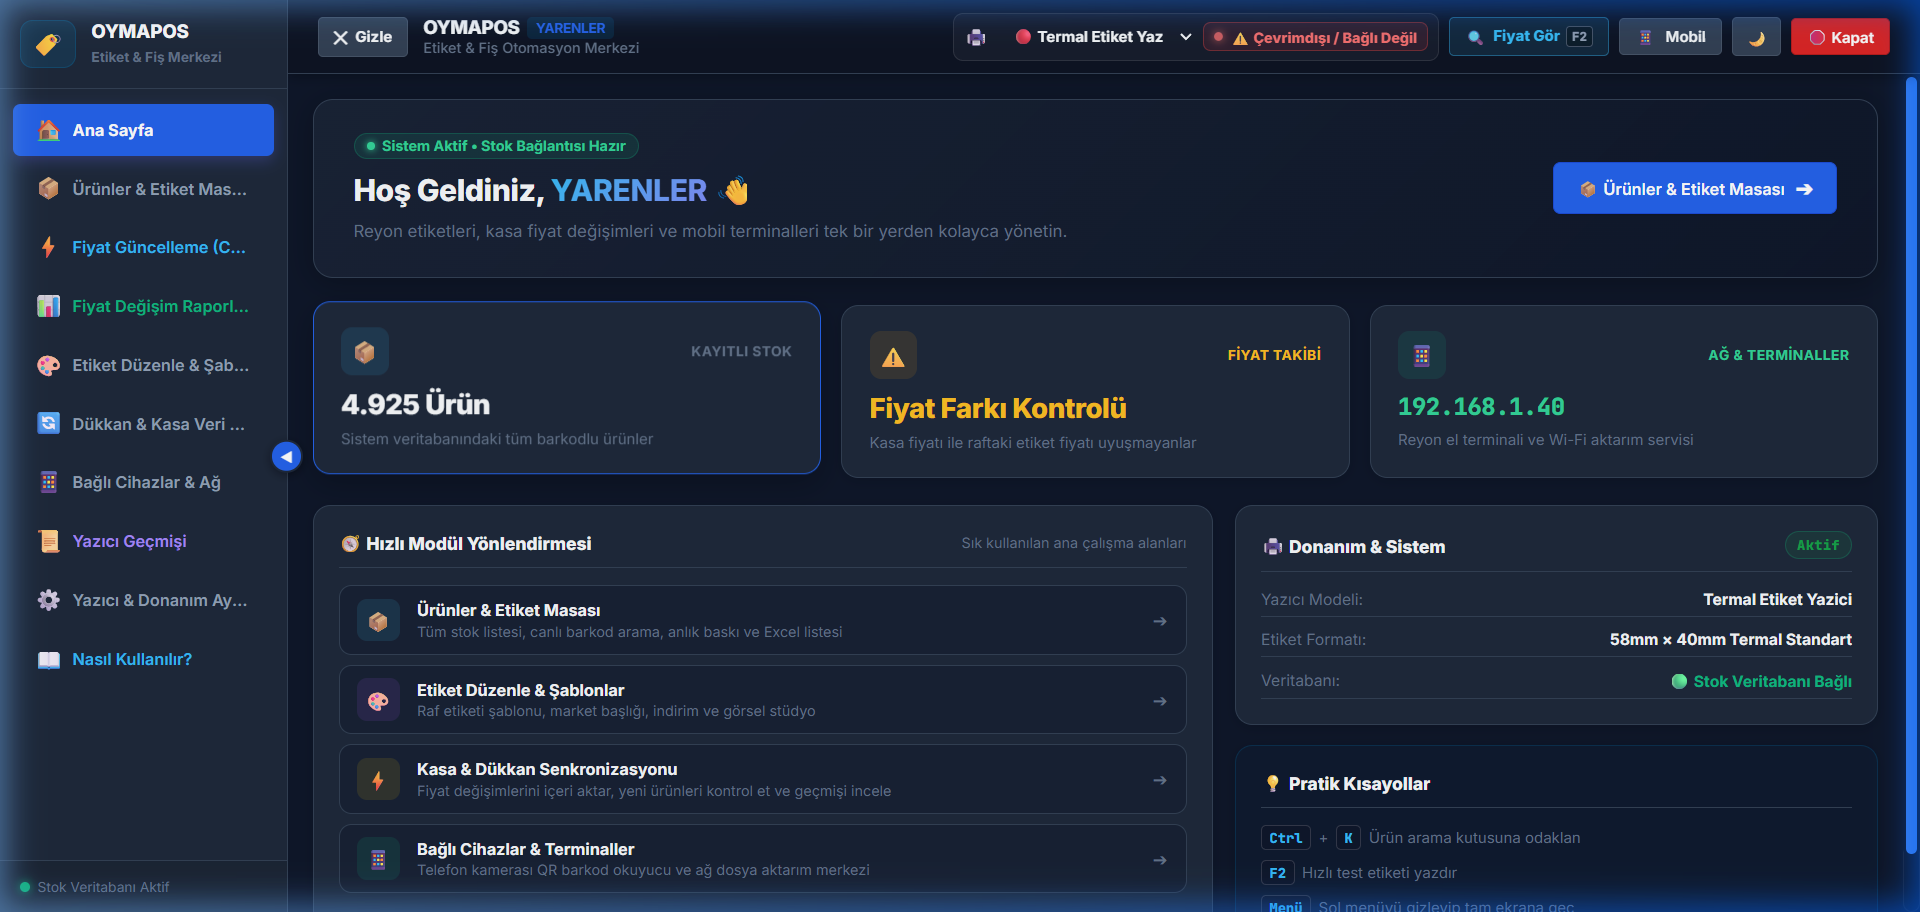
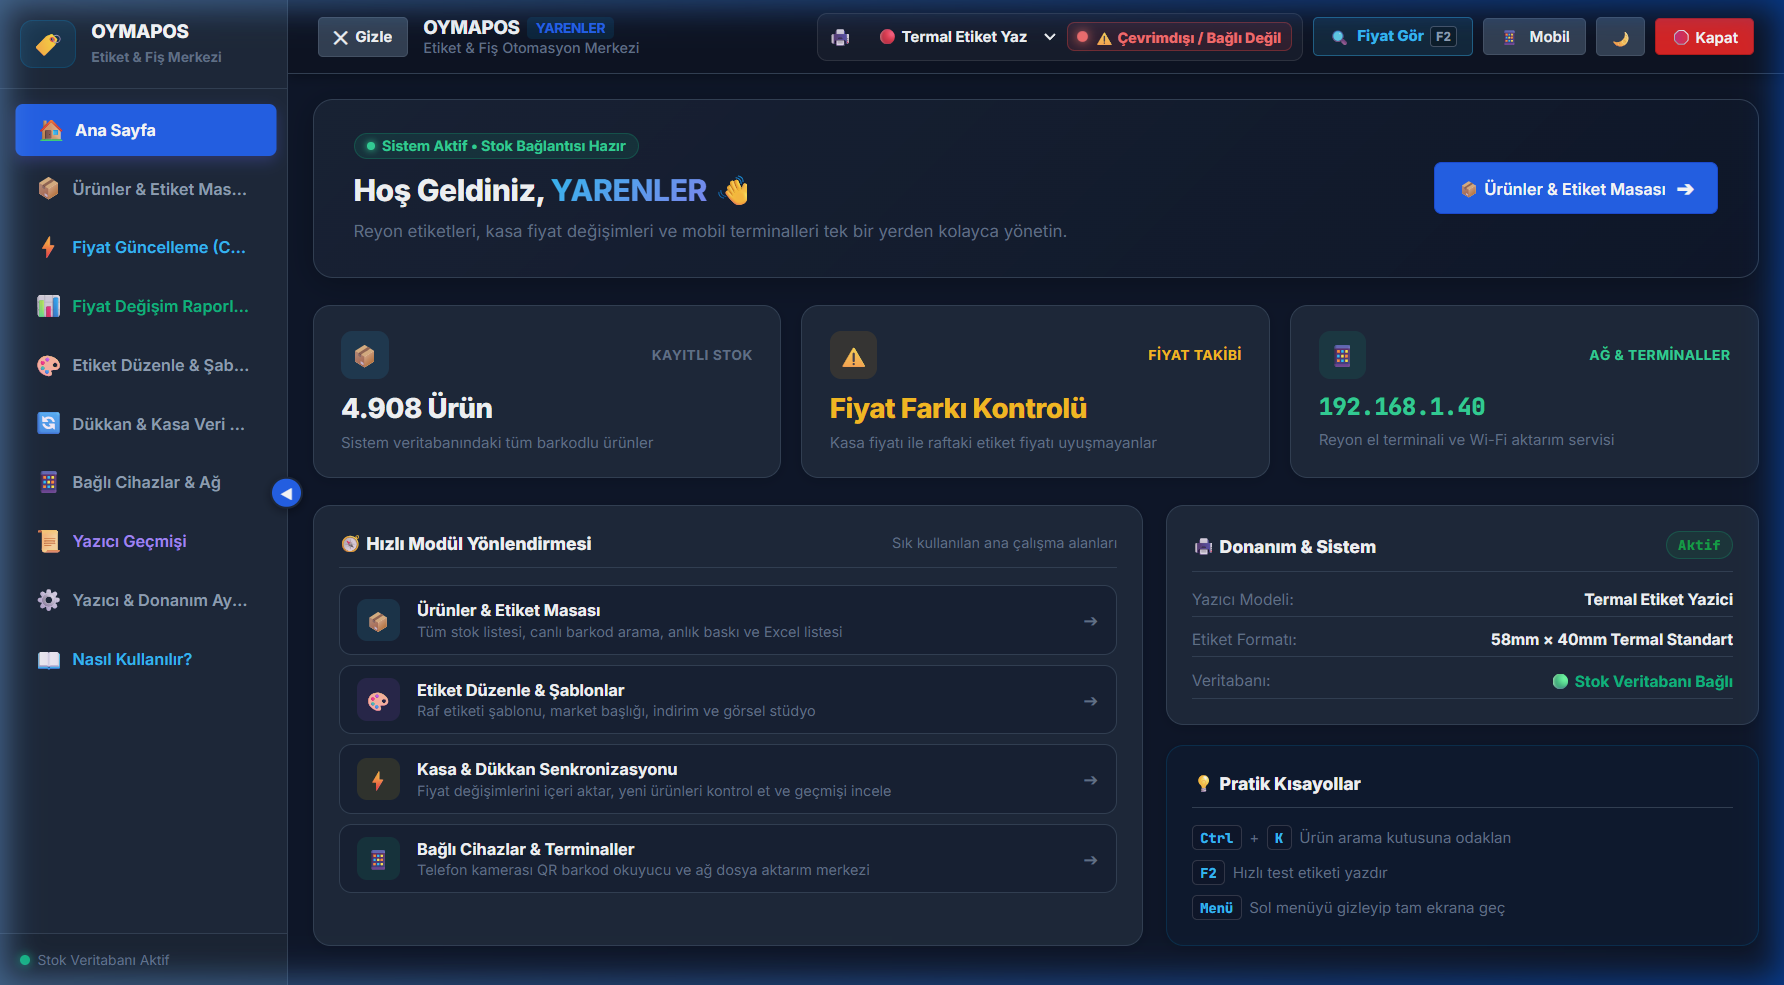
docs: tum paneller ve mobil terminal 3 sekme detayli gorselleri ve aciklamalari eklendi

diff --git a/README.md b/README.md
@@ -6,59 +6,58 @@ Herhangi bir özel POS veya ERP yazılımına bağımlı kalmadan; panodan kopya
 
 ---
 
-## 📸 Ekran Görüntüleri & Arayüz Önizlemesi
+## 📱 Mobil Reyon Terminali (Telefon ile Kablosuz Denetim)
 
-| 🖥 Masaüstü Kontrol Merkezi & Ürün Masası | 📱 Mobil Reyon Asistanı (Telefon Terminali) |
-| :---: | :---: |
-| <img src="frontend/assets/screenshots/desktop_products.png" width="580" alt="Masaüstü Ürünler Masası"> | <img src="frontend/assets/screenshots/mobile_assistant.png" width="260" alt="Mobil Reyon Terminali"> |
+Akıllı telefonunuzu herhangi bir uygulama yüklemeden reyon el terminaline dönüştürün. Kamera ile barkod okutma, anlık ürün sorgulama, fiyat değiştirme ve kasadaki yazıcıya tek tıkla yazdırma imkanı sunar.
 
-| 📊 Ana Kontrol Paneli (Dashboard) |
-| :---: |
-| <img src="frontend/assets/screenshots/desktop_dashboard.png" width="860" alt="Masaüstü Dashboard"> |
+| 1. Fiyat Gör & Ürün Kartı | 2. Basım Kuyruğu & Gönderim | 3. Günlük Değişenler Listesi |
+| :---: | :---: | :---: |
+| <img src="frontend/assets/screenshots/mobile_scan_active.png" width="280" alt="Mobil Fiyat Gör ve Ürün Kartı"> | <img src="frontend/assets/screenshots/mobile_queue.png" width="280" alt="Mobil Basım Kuyruğu"> | <img src="frontend/assets/screenshots/mobile_changes.png" width="280" alt="Mobil Değişenler Listesi"> |
+| **Barkod Okutma & Detay:**<br>Kamera veya manuel aramayla anında satış fiyatı, etiket fiyatı ve piyasa karşılaştırması. | **Kuyruk Yönetimi:**<br>Okutulan ürünler ters kronolojik sırayla toplanır; toplu olarak kasadaki termal yazıcıya iletilir. | **Reyon Denetimi:**<br>Günün fiyatı değişen ürünlerini listeler, tek tıkla barkod dökümü ve PDF indirme sağlar. |
 
 ---
 
-## 📖 Sistem Panelleri ve Kullanım Kılavuzu
+## 🖥 Masaüstü Yönetim Masası & Temel Paneller
 
-### 1. 📦 Ürünler & Etiket Masası
-* **Arama & Filtreleme:** Ürün adı, barkod veya reyon kodu ile anında filtreleme.
-* **Ürün Detay Kartı:** Listede bir ürüne 1 kez tıklandığında ürünün detayları, fiyat geçmişi ve etiket önizlemesi görüntülenir.
-* **Hızlı Düzenleme:** Ürüne çift tıklandığında ürün adı, satış fiyatı, birim miktarı ve KDV oranı doğrudan düzenlenebilir.
-* **Çoklu Seçim:** `Shift + Tık` ile aralık seçimi, `Ctrl + Tık` ile bağımsız çoklu ürün seçimi yapılabilir.
-* **Fiyat Farkı Takibi:** "⚠ Fiyatı Değişenler" filtresiyle, kasadaki güncel fiyatı ile basılı raf etiketi uyuşmayan ürünler tek tıkla listelenir.
-* **Kara Liste Filtresi:** Poşet, depozito vb. etiket basılmayacak ürünler tek tıkla gizlenir veya yönetilir.
+OYMAPOS Masaüstü Arayüzü, yoğun market temposunda hızlı işlem yapabilmek için klavye odaklı, sade ve güçlü araçlarla donatılmıştır.
 
-### 2. ⚡ Fiyat Güncelleme (Ctrl+V & Excel Masası)
-* **Panodan Doğrudan Yapıştırma (Ctrl + V):** Muhasebe programından veya Excel'den kopyalanan satırları doğrudan yapıştırarak saniyeler içinde içeri aktarma.
-* **Excel / CSV Yükleme:** Sürükle-bırak yöntemiyle dosya yükleme desteği.
-* **2 Aşamalı Güvenli Karşılaştırma Masası:** Zam gelenler, indirim yapılanlar ve yeni ürünler onay öncesinde renk kodlarıyla gösterilir.
-* **Geri Alma (Rollback / Undo):** İstenmeyen aktarımlarda tek tıkla önceki fiyatlara anında dönebilme.
+### 1. 🏠 Ana Kontrol Paneli (Dashboard)
+Toplam stok durumu, fiyatı değişen ürün sayısı, aktif yazıcı bağlantısı ve hızlı yönlendirme kartları.
+<p align="center">
+  <img src="frontend/assets/screenshots/desktop_dashboard.png" width="920" alt="Masaüstü Dashboard Paneli">
+</p>
 
-### 3. 📊 Fiyat Değişim Raporları & PDF Baskı
-* **Günlük ve Kaynak Bazlı Takip:** Mobil terminalden, masaüstünden veya toplu aktarımdan gelen fiyat değişimleri ayrı ayrı filtrelenir.
-* **A4 Büyük Barkodlu Değişim Raporu:** Reyon görevlisinin reyonda gezerken el tipi okuyucu veya telefonla okutabileceği büyük barkodlu A4 PDF dökümü oluşturulur.
-* **Otomatik Etiket Fiyatı Eşitleme:** PDF basıldıktan sonra sistem onay ister ve ürünlerin raf etiket fiyatları otomatik olarak güncellenir.
+---
 
-### 4. 🎨 Etiket Düzenle & Şablonlar (Stüdyo)
-* **Hazır Standart Boyutlar:** 76x40 mm (Standart Market Rafı), 60x40 mm (Kompakt), 40x20 mm ve özel ebatlar.
-* **Yasal Ögeler:** Resmi Yerli Üretim Logosu, Birim Fiyat Kutusu (1 KG / 1 LT), Gramaj/Miktar Rozeti, Reyon Kodu ve QR Kod desteği.
-* **Görsel Tasarım Masası:** Ögelerin yerleşimi canlı önizleme üzerinden anında kontrol edilir.
+### 2. 📦 Ürünler & Hızlı Etiket Masası (Excel Grid)
+4.900+ ürünün anlık arandığı, fiyat farkı olanların tek tıkla süzüldüğü ve `Shift/Ctrl + Tık` ile çoklu etiket basıldığı ana merkez.
+<p align="center">
+  <img src="frontend/assets/screenshots/desktop_products.png" width="920" alt="Masaüstü Ürünler Masası">
+</p>
 
-### 5. 🔄 Dükkan & Kasa Veri Aktarımı
-* **Otomatik Dosya İzleme:** Kasa programının ürettiği `fiyat.xlsx` veya `urunler.csv` dosyası güncellendiğinde sistem fiyatları otomatik algılar.
-* **Yerel Ağ Senkronizasyonu:** Dükkandaki diğer bilgisayarlardan `http://[IP]:8000/sync` adresi üzerinden veri aktarımı.
-* **Terazi & Manav Barkodu:** 27, 28 ve 29 ile başlayan gramajlı ve tutarlı terazi barkodlarını otomatik ayrıştırma.
+---
 
-### 6. 📱 Mobil Barkod Terminali (Reyon Asistanı)
-* **Uygulamasız Kullanım:** Tarayıcı üzerinden `http://[IP]:8000/mobile` adresine girilerek telefon kamerası lazer barkod okuyucuya dönüştürülür.
-* **Telefondan Fiyat Değiştirme:** Reyonda gezerken barkodu okutup tek tıkla yeni fiyat girilebilir.
-* **Ters Kronolojik Basım Listesi:** En son okutulan ürün daima en üstte listelenir, böylece reyon görevlisi işlemlerini anlık takip edebilir.
-* **Kasaya Gönder:** Telefondan seçilen etiketler kasadaki termal yazıcıya doğrudan kablosuz iletilir.
+### 3. ⚡ Fiyat Güncelleme Masası (Ctrl+V & Excel)
+Muhasebe programından veya toptancı listesinden kopyalanan verileri anında yapıştırın. Zam gelenler yeşil/kırmızı renk kodlarıyla gösterilir ve güvenle aktarılır.
+<p align="center">
+  <img src="frontend/assets/screenshots/desktop_price_update.png" width="920" alt="Fiyat Güncelleme Masası">
+</p>
 
-### 7. ⚙ Yazıcı & Donanım Ayarları
-* **Termal Yazıcı Yönetimi:** Xprinter, Zebra, Argox, HPRT, Bixolon vb. tüm yazıcılarla doğrudan Windows RAW Spooler (ZPL / TSPL) entegrasyonu.
-* **Baskı Kalibrasyonu:** Koyuluk (Darkness) ve yatay/dikey ofset kaydırma ayarları.
-* **Tek Tıkla Yedekleme:** Veritabanı ve ayarları `.zip` formatında dışa aktarma ve geri yükleme.
+---
+
+### 4. 📊 Günlük Fiyat Değişim Raporları & A4 Barkod PDF Dökümü
+Günün veya geçmiş günlerin fiyat değişimlerini kaynak bazlı (mobil, masaüstü, dosya) filtreleyin. Reyonda okutulabilecek A4 büyük barkodlu PDF dökümü alın.
+<p align="center">
+  <img src="frontend/assets/screenshots/desktop_price_reports.png" width="920" alt="Fiyat Değişim Raporları">
+</p>
+
+---
+
+### 5. 🎨 Etiket Düzenle & Şablonlar (Stüdyo)
+76x40mm Standart Market Rafı ve 60x40mm Kompakt şablonları canlı önizleyin. Resmi Yerli Üretim Logosu, Birim Fiyat Kutusu ve Reyon Kodu alanlarını özelleştirin.
+<p align="center">
+  <img src="frontend/assets/screenshots/desktop_studio.png" width="920" alt="Etiket Tasarım Stüdyosu">
+</p>
 
 ---
 
@@ -66,17 +65,18 @@ Herhangi bir özel POS veya ERP yazılımına bağımlı kalmadan; panodan kopya
 
 | Kısayol | Açıklama |
 | :--- | :--- |
-| **`F2`** | Hızlı Fiyat Gör & Barkod / Stok Sorgulama modalını açar. |
+| **`F2`** | Hızlı Fiyat Gör & Barkod / Stok Sorgulama penceresini açar. |
 | **`Shift + Tık`** | Ürün tablosunda seçilen iki ürün arasındaki tüm satırları seçer (Aralık Seçimi). |
-| **`Ctrl + Tık`** | Ürün tablosunda istenen ürünleri tek tek seçime ekler/çıkarır. |
-| **`ESC`** | Açık olan önizleme, düzenleme ve arama modallarını kapatır. |
+| **`Ctrl + Tık`** | Ürün tablosunda istenen ürünleri tek tek çoklu seçime ekler/çıkarır. |
+| **`Ctrl + K`** | Doğrudan ürün arama çubuğuna odaklanır. |
+| **`ESC`** | Açık olan önizleme, düzenleme ve arama pencerelerini kapatır. |
 
 ---
 
 ## 🚀 Kurulum ve Başlatma
 
 ### 1. Tek Tıkla Başlatma (Tavsiye Edilen)
-Proje ana dizinindeki **`BASLAT.bat`** dosyasına çift tıklayın. Sistem ortamı otomatik hazırlar ve tarayıcıyı açar.
+Proje ana dizinindeki **`BASLAT.bat`** dosyasına çift tıklayın. Sistem Python ortamını ve bağımlılıkları kontrol ederek sunucuyu otomatik başlatır.
 
 ### 2. Manuel Başlatma (Geliştirici Modu)
 ```bash
@@ -94,6 +94,6 @@ Tarayıcınızda arayüz `http://localhost:8000` adresinde açılacaktır.
 
 | Modül | Yerel Adres | Açıklama |
 | :--- | :--- | :--- |
-| 🖥 **Masaüstü Kontrol Merkezi** | `http://localhost:8000/` | Ürünler, şablonlar, fiyat değişimi ve raporlar. |
-| 💻 **Veri Aktarım Masası** | `http://[IP_ADRESI]:8000/sync` | Ağdaki diğer bilgisayarlardan dosya/pano aktarımı. |
-| 📱 **Reyon Mobil Terminali** | `http://[IP_ADRESI]:8000/mobile` | Telefon kamerasıyla kablosuz reyon denetimi ve etiket basımı. |
+| 🖥 **Masaüstü Kontrol Merkezi** | `http://localhost:8000/` | Ürünler, şablonlar, fiyat değişimi ve raporlama masası. |
+| 💻 **Veri Aktarım Masası** | `http://[IP_ADRESI]:8000/sync` | Yerel ağdaki diğer bilgisayarlardan dosya ve pano aktarımı. |
+| 📱 **Reyon Mobil Terminali** | `http://[IP_ADRESI]:8000/mobile` | Telefon kamerasıyla kablosuz reyon denetimi ve anlık etiket basımı. |
